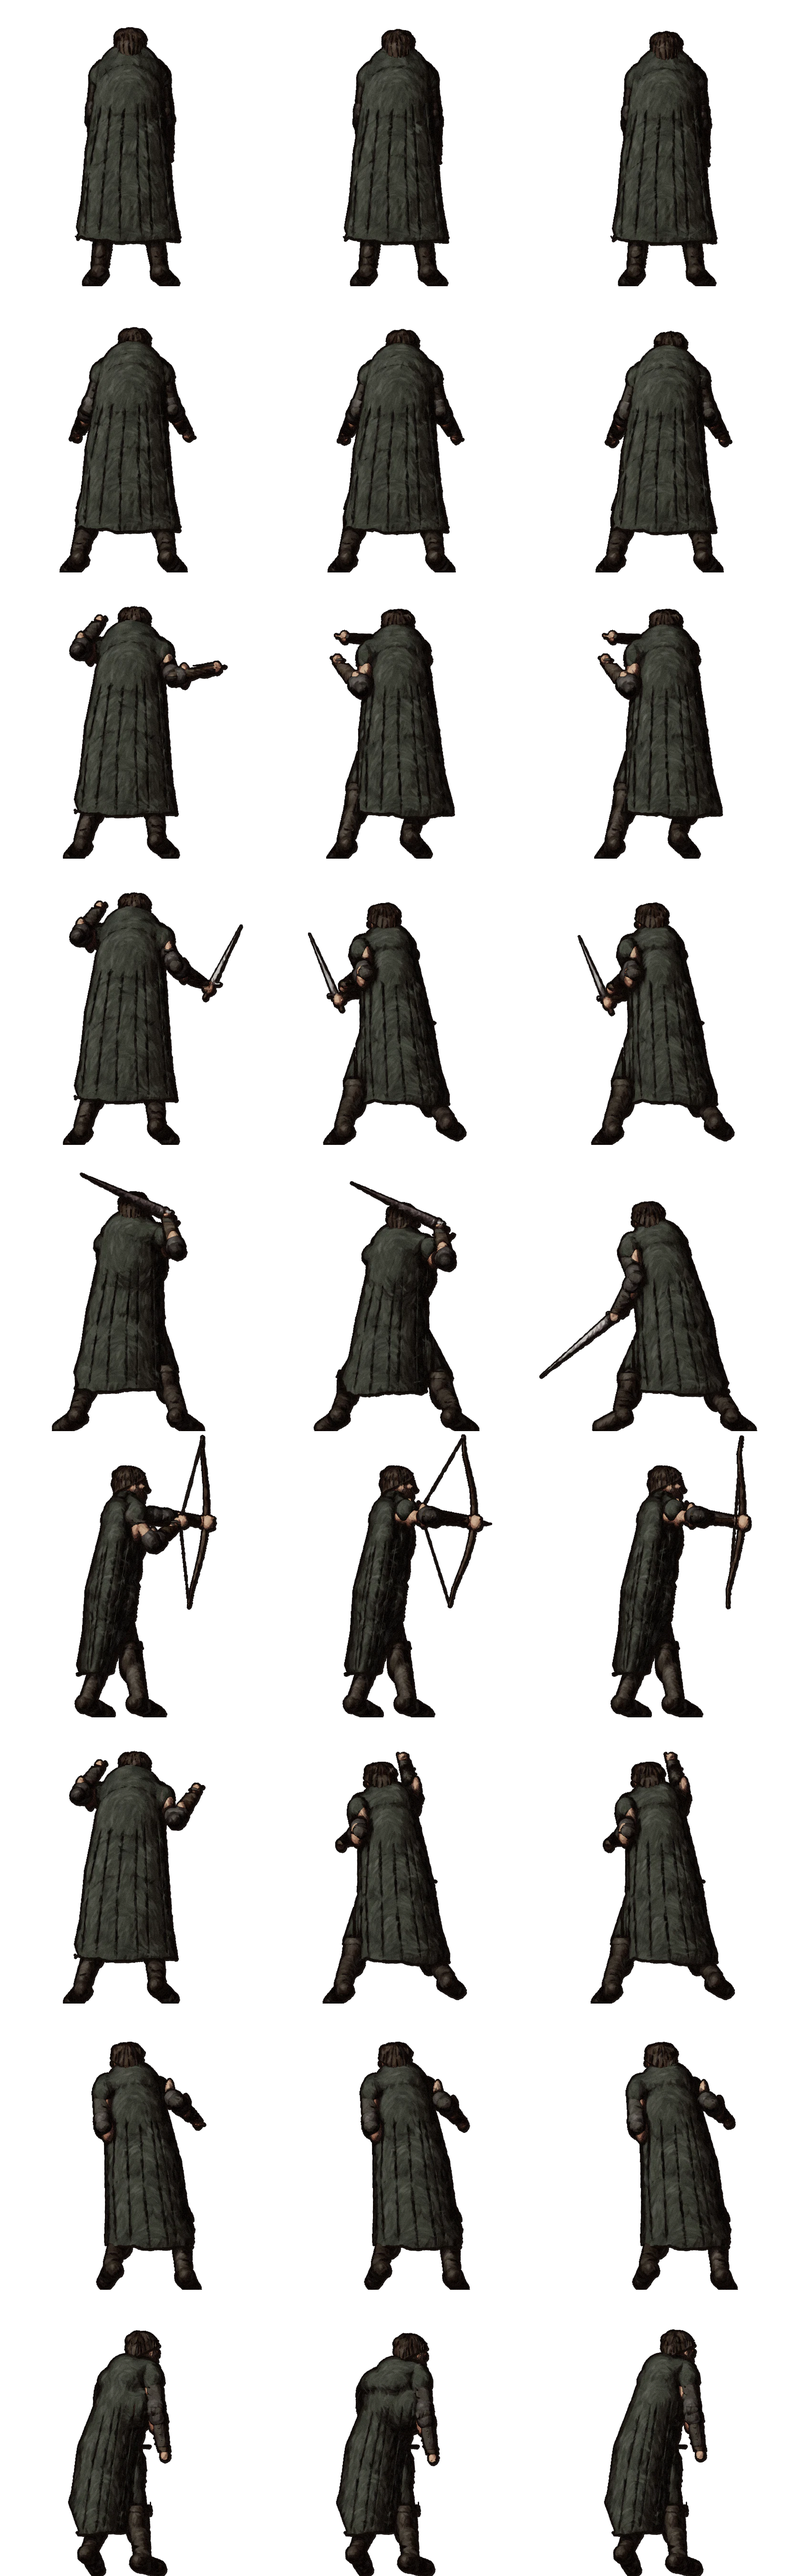
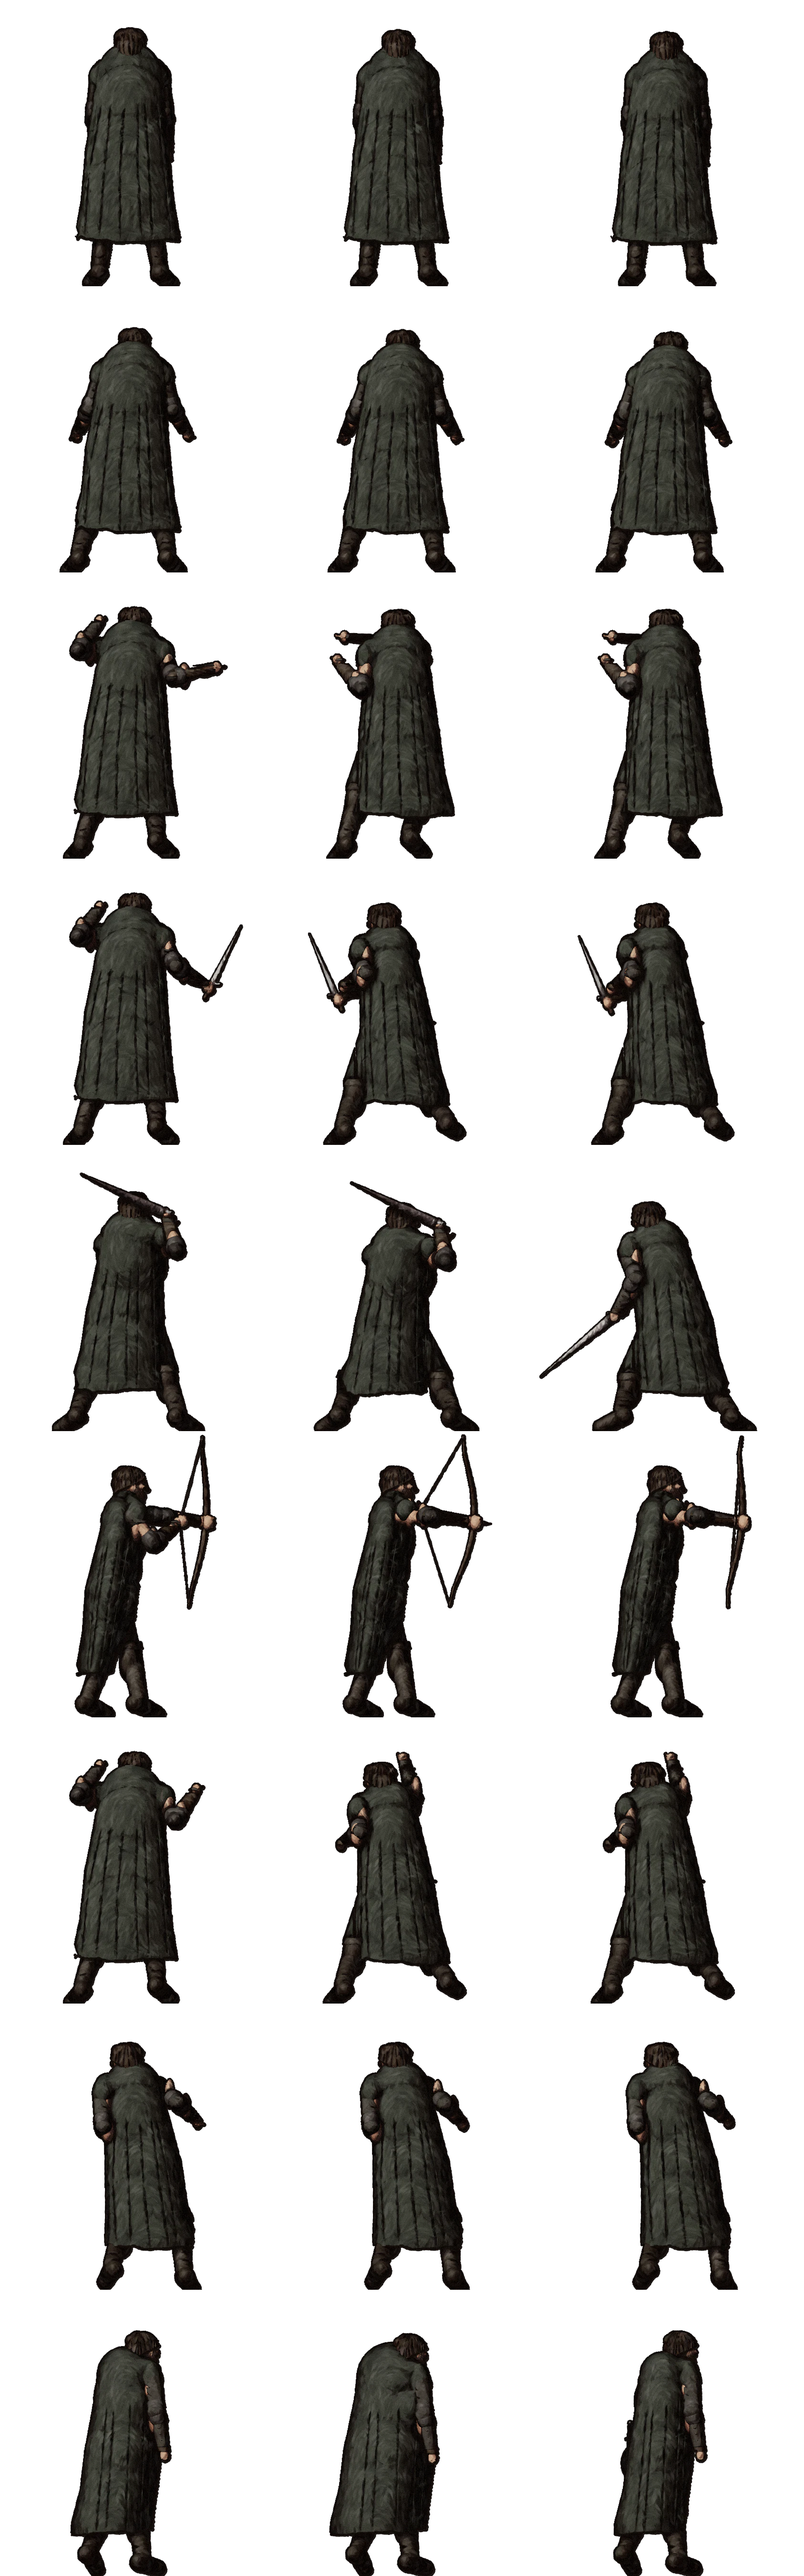
인간 돌아선 자세 줄을 main(d9fa108) 그림으로 고정(AM48)
Claude-Session: https://claude.ai/code/session_01Afqs6dQqVFc3QSoYWgQH29

Changed region(s): [[0.4009, 0.9022, 0.5552, 0.9956], [0.0617, 0.9022, 0.2159, 0.9956], [0.7402, 0.9022, 0.8636, 0.9956]]

diff --git a/docs/ASSUMPTIONS.md b/docs/ASSUMPTIONS.md
@@ -629,7 +629,7 @@
 | AM45 | **인간 탐험가 순찰자 옷차림 후보 → 게임 옷 = h6 순찰자**(사용자 2026-10-29 "h6으로 전부 교체" — `MapLooks.CHOSEN["human"]`, 맵 걷기·전투 뒷모습·동작 시트 다시 그림, `docs/screens/human_h6_combat.png`) + **몸에 맞춰 떨어지는 망토**(사용자 2026-10-29 "인간 탐험가도 여러 개 — 반지의 제왕 아라고른 같은 느낌 · 앞으로 망토는 그대로 얹지 말고 살짝 코트 그린다는 느낌으로 몸 체형과 맞아떨어지게"): `MapLooks` h6 순찰자(긴 망토·젖힌 두건·여밈 쇠·가죽 조끼·긴 장화) · h7 두건 쓴 순찰자(발목 망토) · h8 떠돌이 검사(엉덩이 가죽 외투 + 망토) · h9 북방 경비대(누빔 + 무릎 망토) · h10 사슬 순찰자(사슬 셔츠 + 긴 망토) · h11 길손(무릎 위 짧은 망토). 비교 그림 `docs/screens/human_outfits.png`. **망토 기본 = `BackDrape`**: 따로 빚은 원뿔 대신 외투처럼 몸 부위 기록(몸통·엉덩이·허벅지·목, 어깨는 얇게)을 부풀린 한 겹 + 견갑골에서 단까지 곧게 떨어지는 등 자락(엉덩이 골·다리 사이로 파고들지 않게) — 앞 트임은 몸 둘레 각도(목 아래 ±0.32 → 단 ±0.95 × open)를 화면에 투영해 어느 쪽에서 봐도 맞는 자리에서 잘린다. 안에 누빔·사슬·외투가 있으면 조금 더 띄우고, 겉허리띠는 등 자락만 띄워 덮는다(몸 겹까지 띄우면 윗몸이 부풀었다). 젖힌 두건은 목둘레 천만(등에 붙인 뾰족한 자락은 ▽ 문장처럼 보였다). 옛 원뿔 망토는 `cone: true`(약탈자 r0만 — 게임 그림 그대로). 긴 장화 `boots_tall`(무릎까지) | 사용자 요청 | 고르면 `MapLooks.CHOSEN["human"]` = 그 id → `paint_actors.gd -- --only=human` + `paint_monsters.gd -- --only=human_back` + `paint_motions.gd -- --only=human_back`. 망토 모양 값 = `BackDrape.gd` 맨 위 상수 |
 | AM46 | **전투 동작 다듬기 — 망토 목·팔꿈치 보호대·활 쏠 때 망토**(사용자 2026-10-29 "돌아선 자세에서 목 부분 망토가 튀어나와 보기 안 좋음 · 팔꿈치 살이 가시처럼 튀어나옴 — 검은 보호대로 가려 · 활 쏠 때 옷이 너무 뻣뻣"): ① 젖힌 두건 = 한 덩이 타원 → 목 뒤를 반 바퀴 넘게 감는 몸 좌표 천 말이(`BackDrape` collar — 돌아선 칸에서 어깨 위 혹이 사라짐). ② 팔꿈치 보호대 `elbow_guard`(`BackCloak` — 모든 겹 위에, 위팔·아래팔 겉보다 조금만 큰 가죽 컵 + 위·아래 끈, 검은 가죽 `#1c1714`) — 인간 h6·바바리안 b9 둘 다(처음 크기는 검은 공처럼 보여 살 + 0.007로 줄임). ③ 망토 등 자락이 단까지 같은 굵기의 곧은 통이라 옆모습(활)에서 판처럼 뻣뻣 → 엉덩이 아래부터 뒤로 비스듬히 빠지며 얇아지고(단 중심 +0.07), 단은 몸 둘레를 따라 휘며 등 가운데가 앞 자락보다 0.022 길게 처지고(`hem_poly`), 세로 주름을 몸 둘레 16줄(앞 트임 빼고 — 어느 쪽에서 봐도 주름)로. 단의 지운 구멍은 검은 점처럼 보여 없앰. 정리 그림 `docs/screens/party_motions_sheet.png` | 사용자 요청 | `BackDrape.gd`(등 자락 spine·us·ws, hem_at, 주름), `BackCloak._elbow_guard`, `MapLooks` `elbow_guard` 키 → `paint_actors --only=human,barbarian` · `paint_monsters --only=human_back,barbarian_back` · `paint_motions --only=human_back,barbarian_back` |
 | AM47 | **전투 동작 다듬기 2 — 바바리안 어깨받이·팔꿈치·대기2, 인간 활 망토**(2026-10-29, 사용자 "바바리안 주먹 지르기·한손 무기 휘두르기에서 왼쪽 어깨 갑옷이 안 보이고 팔 파츠가 겹쳐 보임 · 바바리안 전투 대기 모션을 인간과 같은 자세로 · 인간 활쏘기 옆모습 망토가 여전히 어색 — 몸이 조금 드러나게"): ① 어깨받이(`BackSavage._pauldron`)를 어깨 관절에 박지 않고 위팔에 묶었다 — 선 자세 기준 좌표를 위팔 방향(dv)과 그 바깥·위(nv)로 옮기고 판의 화면 기울기도 팔을 따라(`rot`), 등 쪽으로 0.03 띄워 굽힌 아래팔이 위팔 위로 접혀도 덮이지 않게(팔을 들면 팔 밑에 깔려 그늘에 묻혔다). 위팔 끈도 화면 가로 띠 대신 팔을 감은 캡슐. ② 팔꿈치 보호대: 팔꿈치 끝 혹(`Back.body`가 등 쪽으로 0.008 내민 타원)을 따로 덮는 컵 — 분홍 살이 보호대를 뚫고 나와 겹쳐 보였다(한때 크게 키웠더니 검은 공이 되어 다시 줄임). ③ 바바리안 대기2(전투 자세 — `party_motions.json stance@barbarian`, 처음 잰 F&H 전진)를 지워 인간과 같은 칸. ④ 망토(`BackDrape`): 앞 트임 반각 0.32 → 0.7(목) · 0.95 → 1.65(단 — 옆구리 조금 너머)로 넓혀 망토는 등과 옆구리 뒤쪽만 덮고 옆에서는 몸 앞쪽이 드러난다. 트임을 왼쪽·오른쪽 반으로 따로 잰다(한꺼번에 재면 반각이 옆구리를 넘을 때 뒷모습의 양 끝이 함께 보여 망토 전체가 잘렸다). 망토는 어깨선에서 잰 몸틀(rv·bv)을 따른다(관절로 몸을 트는 동작 대비 — 지금 동작들은 카메라 돌림이라 결과는 같다) | 사용자 요청 | `BackSavage._pauldron`, `BackCloak._elbow_guard`, `party_motions.json`, `BackDrape` OPEN_TOP·OPEN_BOT → `paint_actors --only=human,barbarian` · `paint_monsters --only=human_back,barbarian_back` · `paint_motions --only=human_back,barbarian_back` |
-| AM48 | **팔 든 칸의 어깨 밑 혹 · 돌아선 자세 3칸**(2026-10-29, 사용자 "인간 돌아선 자세·대검 1·2칸에서 어깨 밑에 혹 · 돌아선 자세 3칸 어정쩡 · 바바리안 대검 오른쪽 어깨 아래 혹"): 늘어뜨린 팔이 가리던 몸통 근육 덩어리가 팔을 들면 드러났다 — 광배근 타원이 옆구리 밖으로 둥글게(바바리안은 맨살, 인간은 망토를 밀어 올림), 어깨세모근은 관절 아래에 고정이라 겨드랑이에. `Back.body`: 팔 든 정도 `_arm_lift`(위팔 방향 — 팔꿈치 높이만 보면 앞으로 내민 대검 자세를 못 잡았다)만큼 광배근을 가슴 윤곽 안으로 좁히고 납작하게(폭 0.42 → 0.16 × 어깨 반폭, 깊이 × 0.45), 어깨세모근은 위팔 쪽으로 따라 올라간다. 돌아선 자세(`party_motions.json wait`) 3칸은 잰 점이 1px 옆으로 밀려 3D로 옮길 때 몸이 틀어졌다 → 1칸에서 위아래로만(2칸 아래 · 3칸 위). 맵 그림의 약탈자(r0)·외투(h3)도 같은 몸이라 조금 바뀜(늘어뜨린 팔은 거의 그대로) | 사용자 요청 | `Back._arm_lift`·광배근·어깨세모근, `party_motions.json wait` |
+| AM48 | **팔 든 칸의 어깨 밑 혹 · 돌아선 자세 3칸**(2026-10-29, 사용자 "인간 돌아선 자세·대검 1·2칸에서 어깨 밑에 혹 · 돌아선 자세 3칸 어정쩡 · 바바리안 대검 오른쪽 어깨 아래 혹"): 늘어뜨린 팔이 가리던 몸통 근육 덩어리가 팔을 들면 드러났다 — 광배근 타원이 옆구리 밖으로 둥글게(바바리안은 맨살, 인간은 망토를 밀어 올림), 어깨세모근은 관절 아래에 고정이라 겨드랑이에. `Back.body`: 팔 든 정도 `_arm_lift`(위팔 방향 — 팔꿈치 높이만 보면 앞으로 내민 대검 자세를 못 잡았다)만큼 광배근을 가슴 윤곽 안으로 좁히고 납작하게(폭 0.42 → 0.16 × 어깨 반폭, 깊이 × 0.45), 어깨세모근은 위팔 쪽으로 따라 올라간다. 돌아선 자세 3칸을 1칸에서 위아래로만 숨쉬게 바꿔 봤다가 사용자가 되돌림("인간 돌아선 자세는 원래 거로 — 2시간 전 main에 push한 거") → 잰 칸 데이터 그대로, **인간 돌아선 자세 줄은 커밋 d9fa108의 그림을 고정**(`tools/monster_art/pinned/human_back_wait.png` — `paint_motions`가 그린 줄 대신 넣는다, 폴더에 `.gdignore`). 맵 그림의 약탈자(r0)·외투(h3)도 같은 몸이라 조금 바뀜(늘어뜨린 팔은 거의 그대로) | 사용자 요청 | `Back._arm_lift`·광배근·어깨세모근, 고정한 줄 = `tools/monster_art/pinned/<id>_<동작>.png`(지우면 다시 그린 줄) |
 | AM13 | 입자는 CPUParticles2D(웹 호환), 플레이어를 따라가며 시야 반경 안에서만 생기고 월드에 남는다(걸어도 끌려가지 않음). 그림은 둥근 점(그러데이션 16px) — 손그림 입자는 A2 이후 | 지시서 §3.3·§7 | `AmbientParticles` |
 
 ## 1층 채우기 — 다른 탐험가·약탈자·밀도 (2026-10-21, 사용자 "abcdf 하고 싶은데 1층에도 약탈자가 있음" — `docs/plans/floor1_fill.md` A·B·C·D·F)

diff --git a/docs/TOOLS.md b/docs/TOOLS.md
@@ -29,7 +29,7 @@
   - 그 밖의 옵션(전투 `--combat --monster=<id> --summon=… --summon_each --god`, 균열 `--rift=<id> --chapter=n --engage --near=boss|guardian --spotted`, 메뉴 `--menu=… --keys=…`, 대화창 `--dialog`, 귀환 정산 `--screen=plaza --returning=<쪽>` …)은 `tools/screenshot.gd` 맨 위 주석.
 - **그림 다시 만들기**(도시·몬스터 전투·전투 뒷그림·아군 뒷모습·탐험 맵 재질·몸 그림·아이템·여관 요리·도서관 서적·상태이상 아이콘): 명령·옵션·걸리는 시간은 **`docs/ART.md` §0**. 그림·렌더링을 바꿨으면 반드시 캡처해서 직접 본다(헤드리스 테스트는 그림을 검증하지 못한다). `--script` 도구가 출력 없이 멈추면 `--check-only --script <파일>`로 파싱 오류를 찾는다.
 
-- **전투 탐험가 동작 시트**(UI41 — 게임이 쓴다): `godot --headless --path . --script res://tools/paint_motions.gd [-- --only=human_back,… --motions=idle,swing]` → `assets/party/<id>_motions.webp`(줄 = render.json `ui.combat_party_motion.rows` 순서 7동작, 칸 3 — 대기는 들썩임) + `<id>_dead.webp`(누운 몸). 미리보기 png는 `--out=<폴더> --png`. 동작 관절 = `tools/monster_art/party_motions.json`(참고 시트 120px 칸에서 잰 2D 점 → `PartyMotion`이 3D 뼈대로). **아군 그림(`paint_monsters --only=party`)·옷을 바꿨으면 이것도 다시**(약 3분). 캡처: `screenshot.tscn -- --screen=explore --combat --mate=human,barbarian,human --motions=swing,damage,stance,fall --motion_t=0.2`.
+- **전투 탐험가 동작 시트**(UI41 — 게임이 쓴다): `godot --headless --path . --script res://tools/paint_motions.gd [-- --only=human_back,… --motions=idle,swing]` → `assets/party/<id>_motions.webp`(줄 = render.json `ui.combat_party_motion.rows` 순서 7동작, 칸 3 — 대기는 들썩임) + `<id>_dead.webp`(누운 몸). 미리보기 png는 `--out=<폴더> --png`. 동작 관절 = `tools/monster_art/party_motions.json`(참고 시트 120px 칸에서 잰 2D 점 → `PartyMotion`이 3D 뼈대로). **아군 그림(`paint_monsters --only=party`)·옷을 바꿨으면 이것도 다시**(약 3분). 고정한 줄: `tools/monster_art/pinned/<id>_<동작>.png`가 있으면 그 줄은 다시 그리지 않고 그 그림을 넣는다(지금 `human_back_wait` — 사용자가 고른 예전 그림, AM48). 캡처: `screenshot.tscn -- --screen=explore --combat --mate=human,barbarian,human --motions=swing,damage,stance,fall --motion_t=0.2`.
 
 ## 웹 내보내기
 

diff --git a/docs/archive/PROGRESS_LOG.md b/docs/archive/PROGRESS_LOG.md
@@ -6,7 +6,7 @@
 
 ## 작업 기록 (2026-10-20 이후 — 위가 최신)
 
-- **팔 든 칸 어깨 밑 혹 · 돌아선 자세 3칸 (2026-10-29, 사용자)** — AM48. 광배근을 팔 든 정도(`Back._arm_lift`, 위팔 방향)만큼 몸 윤곽 안으로 좁히고 납작하게, 어깨세모근은 위팔을 따라 · 돌아선 자세 3칸 = 1칸에서 위로만 숨쉬기. 맵·전투 뒷모습·동작 다시 그림.
+- **팔 든 칸 어깨 밑 혹 · 돌아선 자세 3칸 (2026-10-29, 사용자)** — AM48. 광배근을 팔 든 정도(`Back._arm_lift`, 위팔 방향)만큼 몸 윤곽 안으로 좁히고 납작하게, 어깨세모근은 위팔을 따라 · 돌아선 자세 3칸 고친 것은 사용자가 되돌림 → 인간 돌아선 자세 줄 = 커밋 d9fa108 그림 고정(`tools/monster_art/pinned/human_back_wait.png`, `paint_motions._pin`), 잰 칸 데이터 원래대로. 맵·전투 뒷모습·동작 다시 그림.
 
 - **전투 동작 다듬기 2 · 플레이어 맨 왼쪽 (2026-10-29, 사용자)** — AM47·UI42. 바바리안 어깨받이를 위팔에 묶음(주먹 지르기·한손 휘두르기에서 보임) · 팔꿈치 끝 혹을 덮는 컵(분홍 살 겹침) · 바바리안 대기2 = 인간과 같은 칸(`stance@barbarian` 삭제) · 망토 앞 트임 넓힘 + 반쪽씩 재기(활 쏠 때 몸 앞쪽이 드러남) + 몸틀 따르기 · 전투 아군 정렬 `BattleStage._party_before`(플레이어 맨 왼쪽, 소환수 오른쪽 끝). 맵·전투 뒷모습·동작 다시 그림, 정리 그림 `docs/screens/party_motions_sheet.png`.
 
